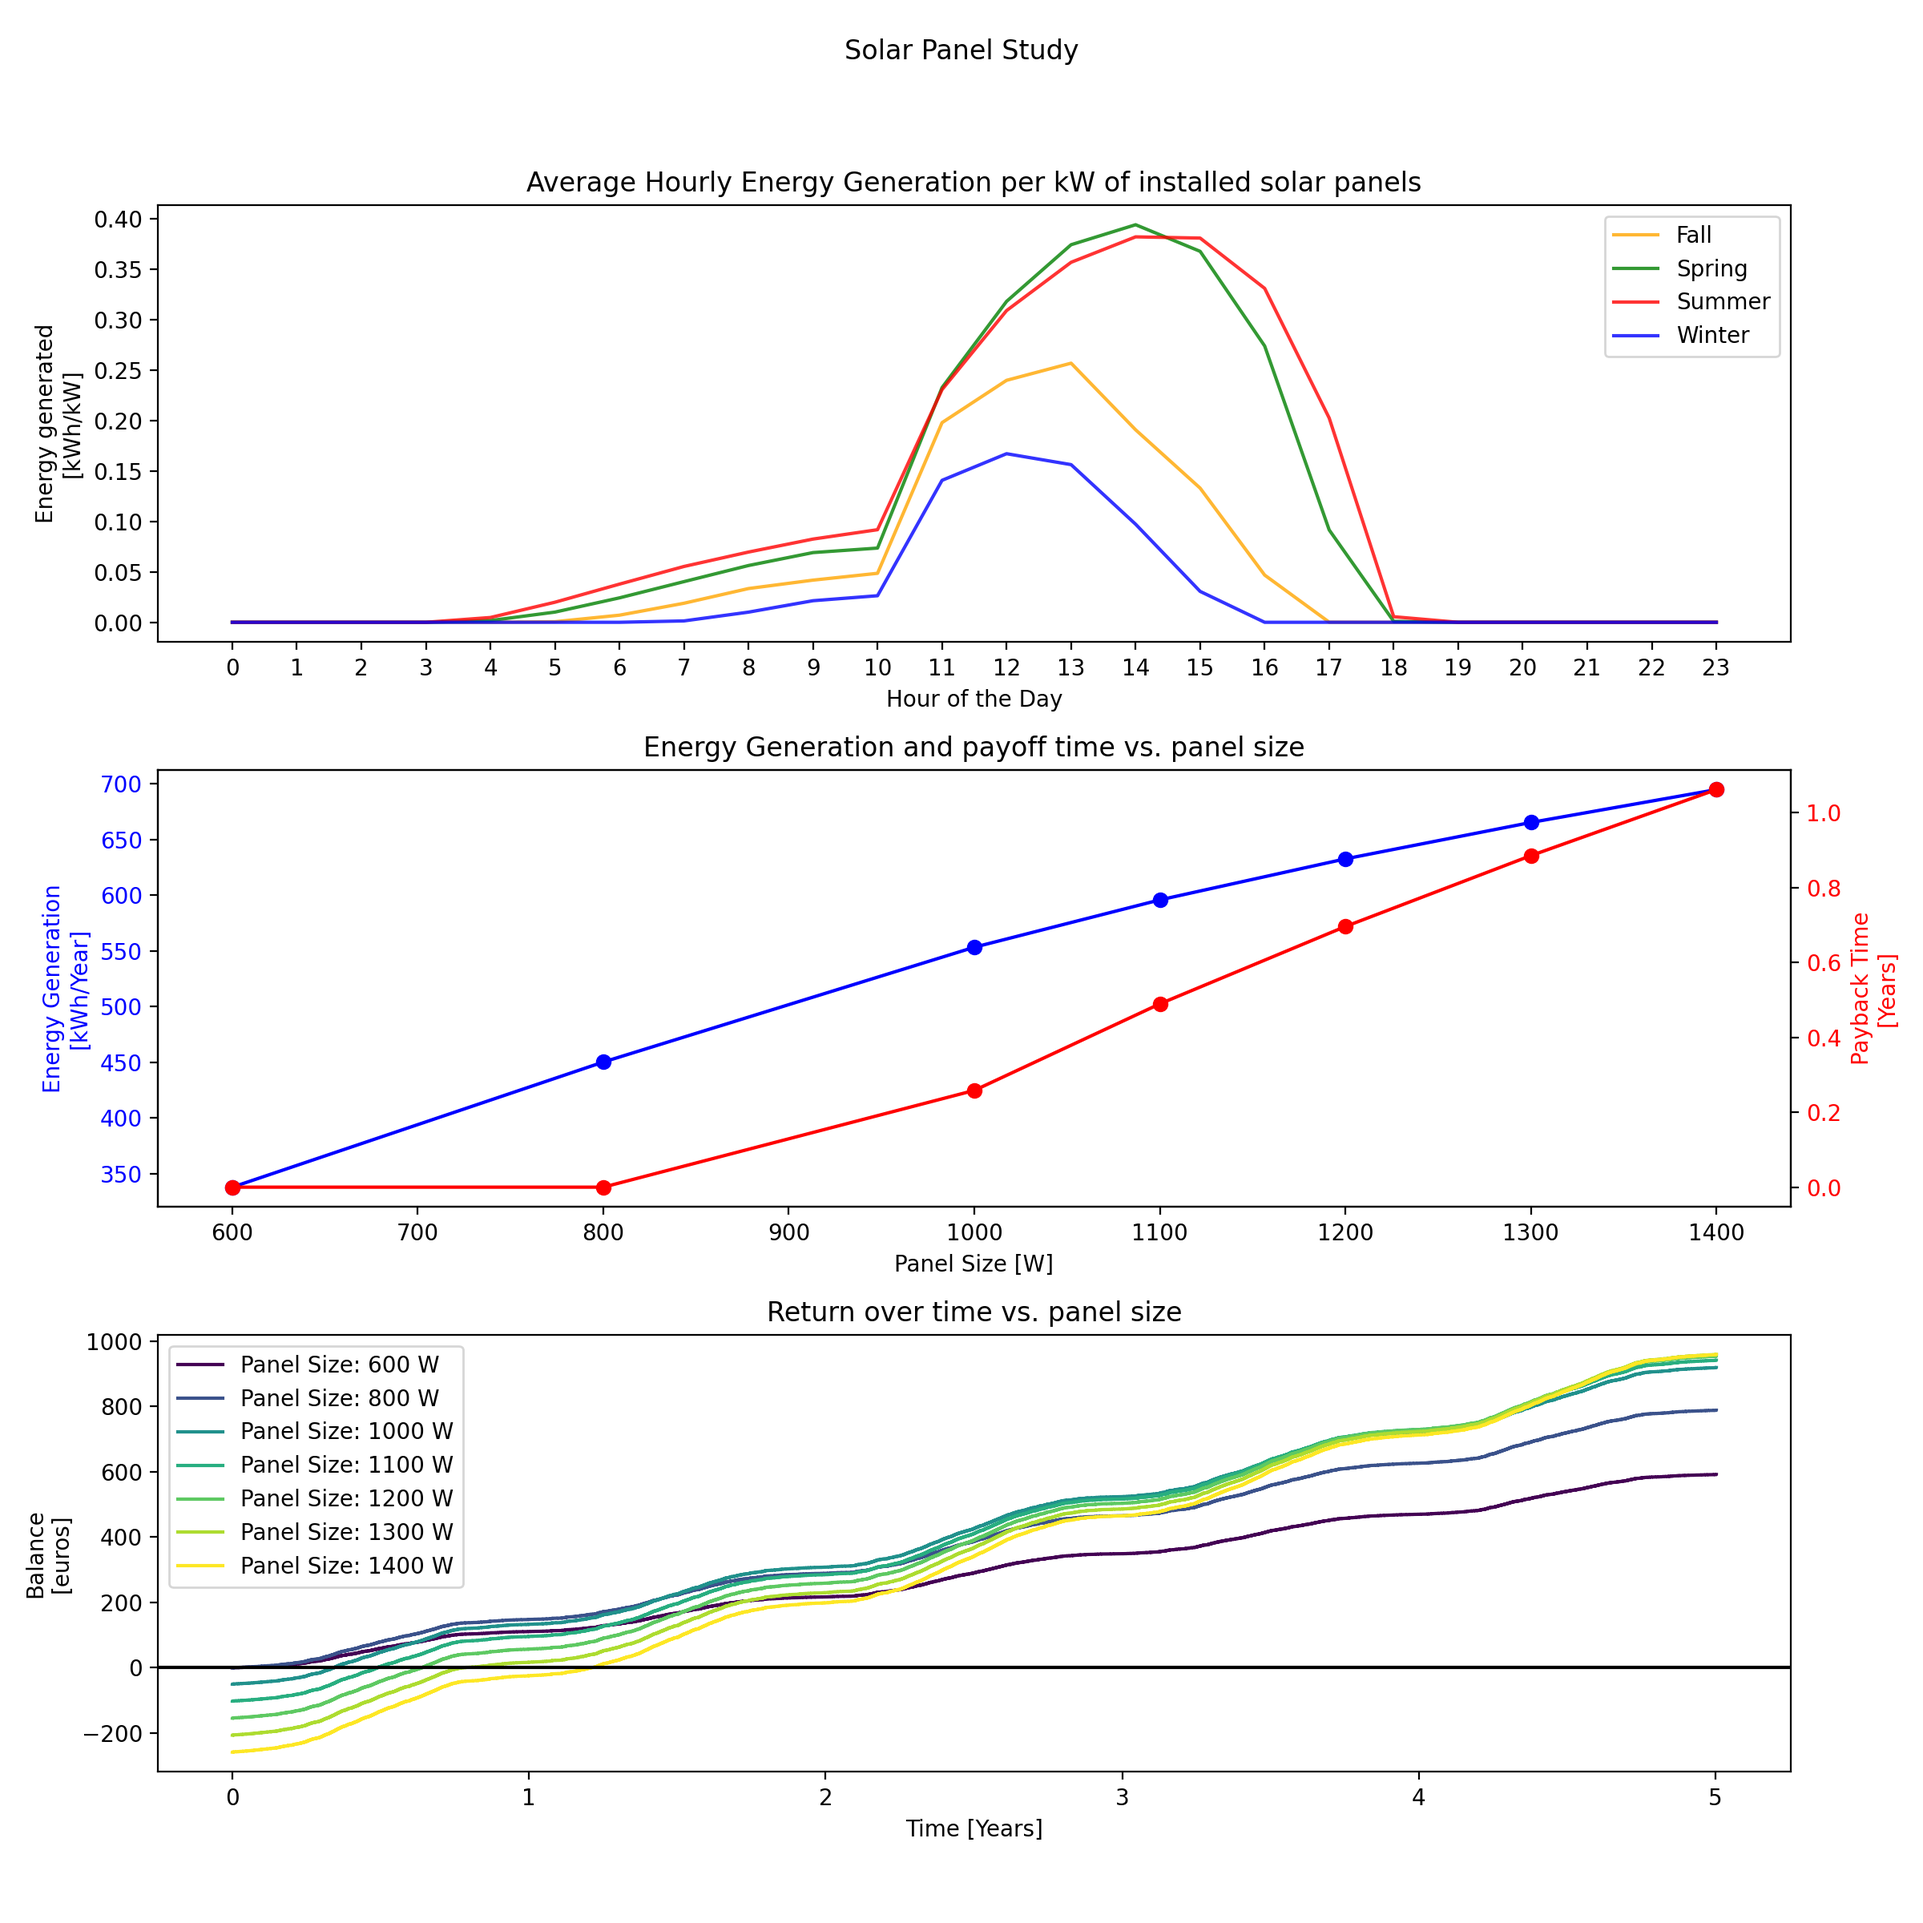
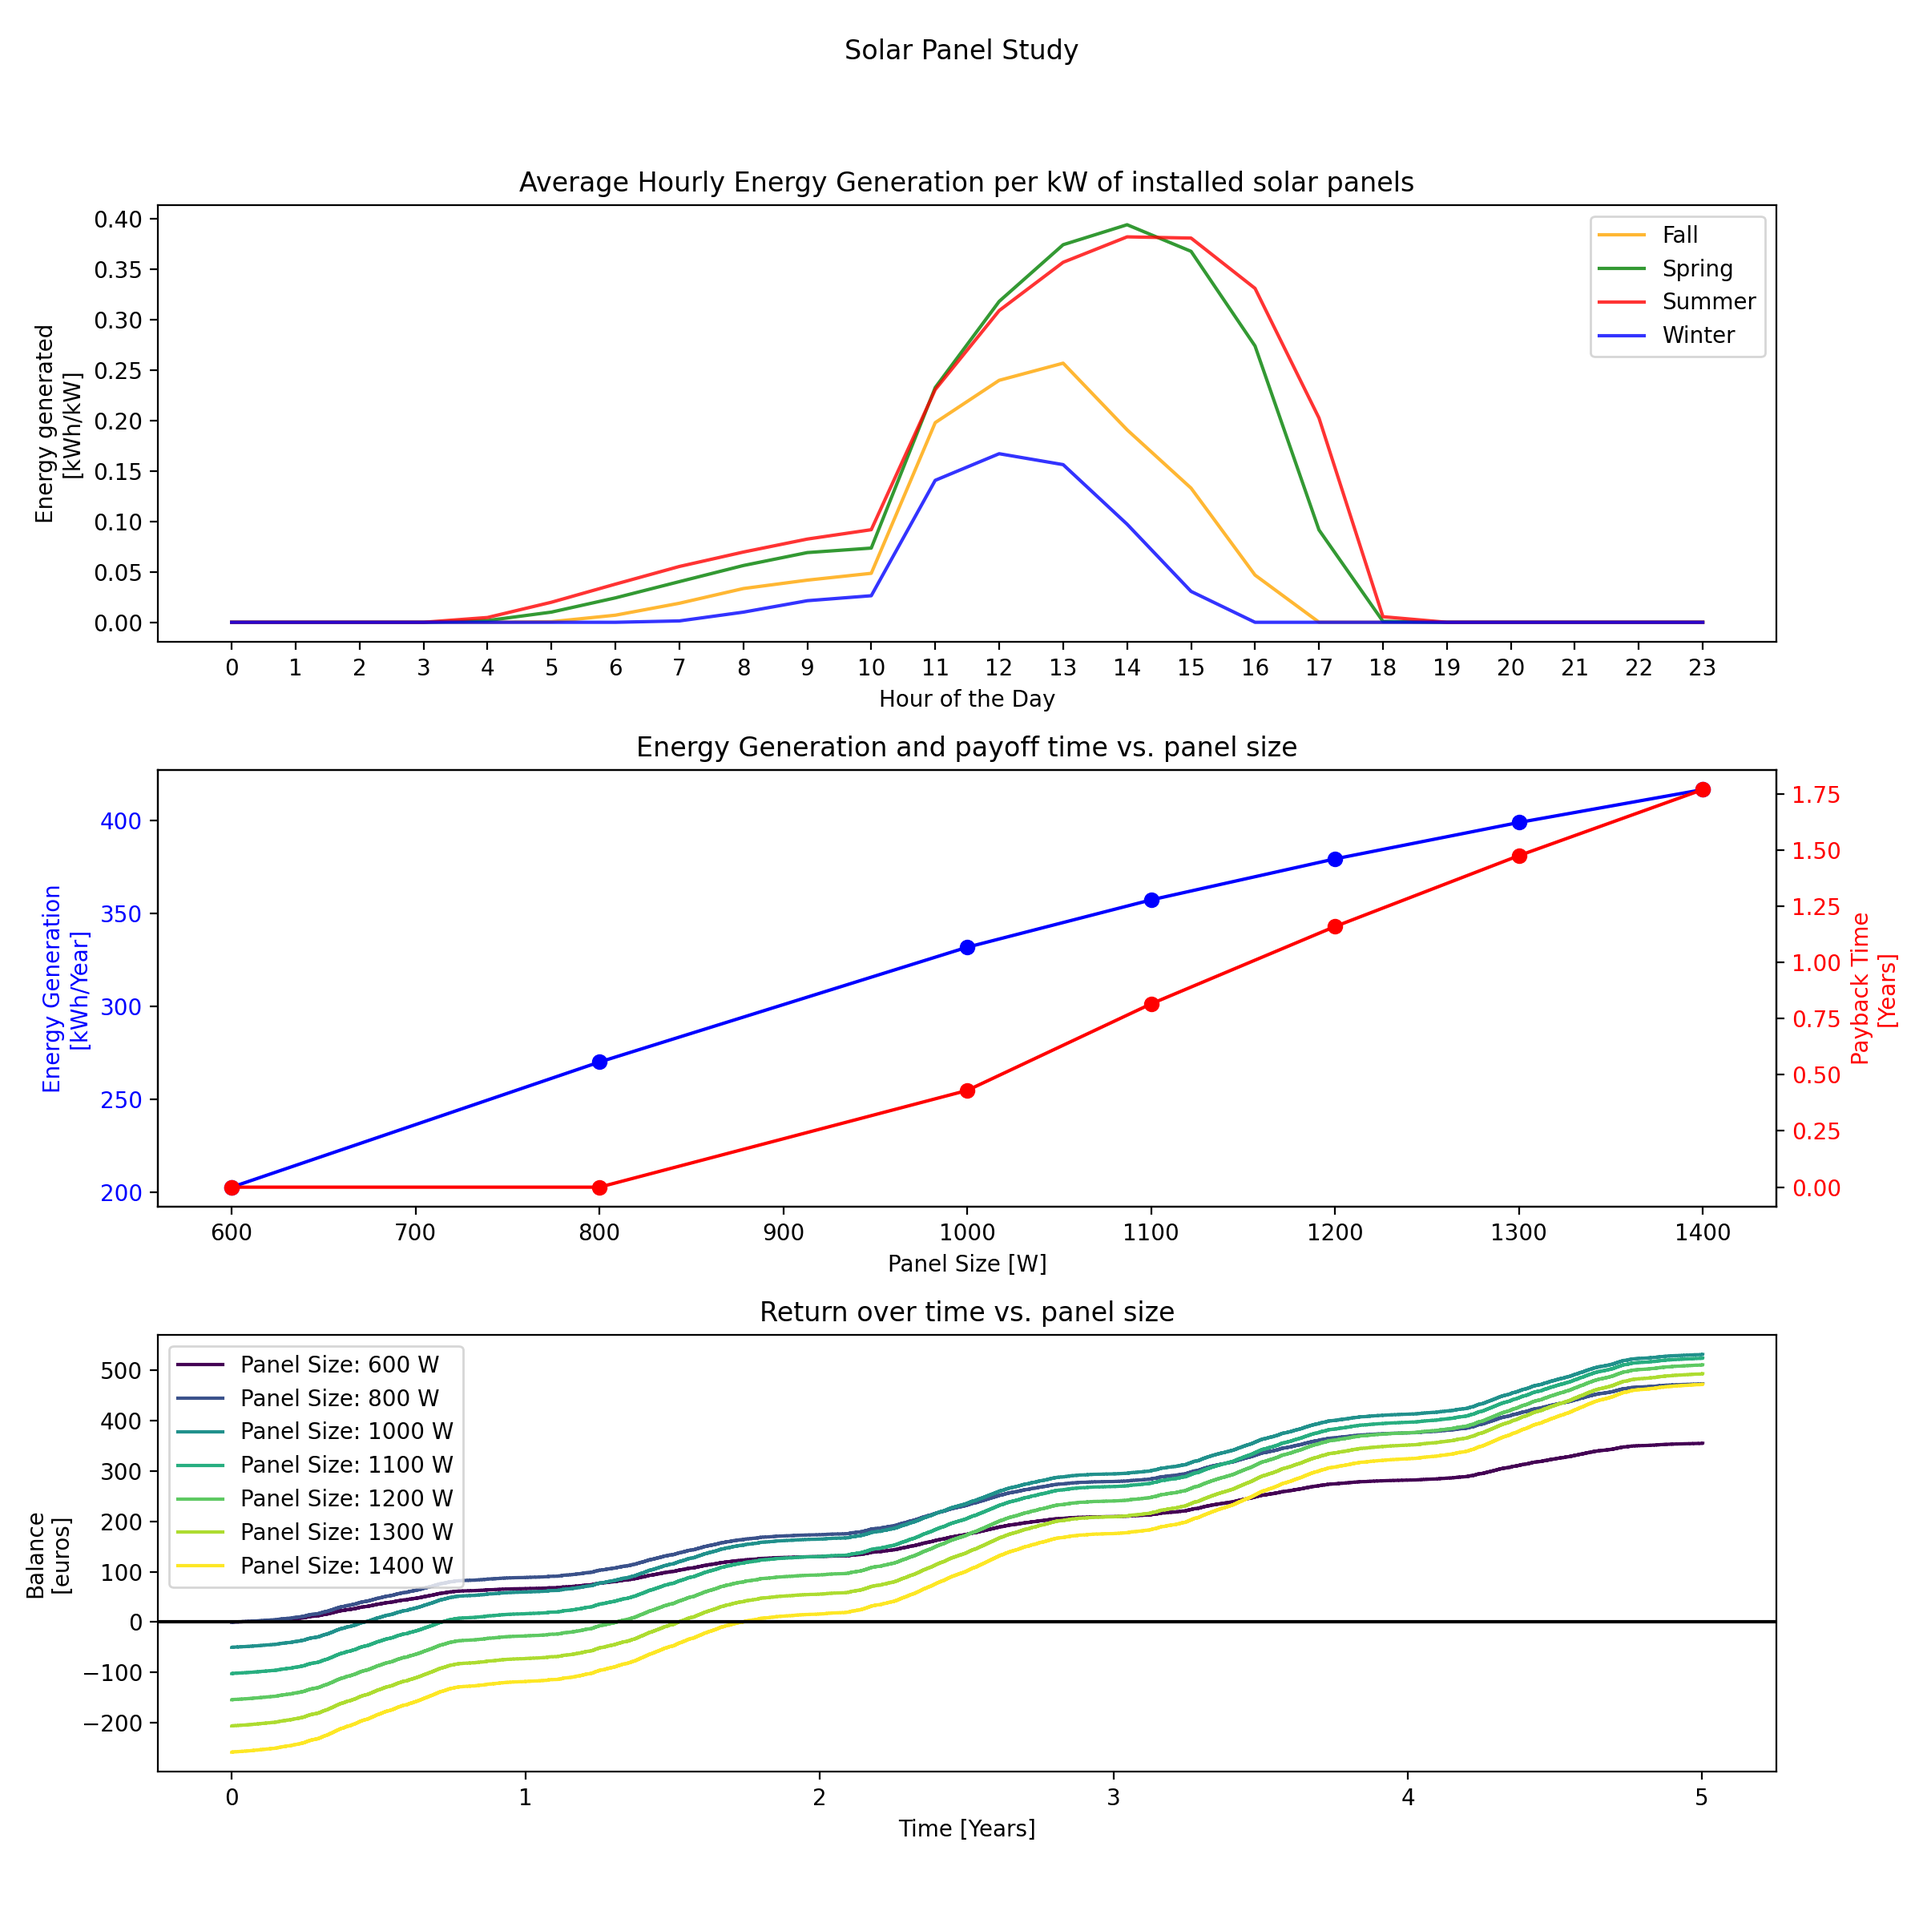
added unused energy coeff

diff --git a/main.py b/main.py
@@ -30,6 +30,7 @@ def main():
     installation_costs = config['installation_costs']
     subsidy_amount = config['subsidy_amount']
     panel_sizes = config['panel_sizes']
+    unused_energy = config['unused_energy']
 
     # Retrieve solar radiation data
     solar_data = get_solar_radiation_data(latitude, longitude, panel_angle, panel_azimuth, pv_tech, horizon_data, system_losses)
@@ -42,14 +43,14 @@ def main():
                                                                    inverter_efficiency,
                                                                    energy_cost_per_kwh,
                                                                    subsidy_amount,
-                                                                   panel_sizes)
+                                                                   panel_sizes, unused_energy)
 
     # Plot and display results
     plot_results(panel_sizes, energy_generated, payback_time, balances, solar_data, max_inverter_power)
 
 
 def calculate_trade_off(solar_data, max_inverter_power, panel_price, installation_costs,
-                        inverter_efficiency, energy_cost_per_kwh, subsidy_amount, panel_sizes):
+                        inverter_efficiency, energy_cost_per_kwh, subsidy_amount, panel_sizes, unused_energy):
     energy_generated, payback_time, balances = [], [], []
     if type(panel_price) is list and len(panel_price) != len(panel_sizes):
         raise ValueError('Panel price is not a single coefficient, but also not the same size as the panel sizes')
@@ -63,10 +64,10 @@ def calculate_trade_off(solar_data, max_inverter_power, panel_price, installatio
             initial_cost = panel_price[i] + installation_costs
         else:
             initial_cost = panel_size * panel_price + installation_costs
-        income = energy_per_hour * inverter_efficiency * energy_cost_per_kwh / 1000
+        income = energy_per_hour * inverter_efficiency * energy_cost_per_kwh * (1-unused_energy) / 1000
         balances.append(min(-initial_cost + subsidy_amount, 0) + np.cumsum(income))
 
-        total_energy_generated = sum(energy_per_hour) * inverter_efficiency
+        total_energy_generated = sum(energy_per_hour) * inverter_efficiency * (1-unused_energy)
         energy_generated.append(total_energy_generated / (num_years * 1000))
 
         payback_time.append(max(initial_cost - subsidy_amount, 0) / (energy_generated[-1] * energy_cost_per_kwh))

diff --git a/README.md b/README.md
@@ -51,6 +51,7 @@ To use the Solar Panel Sizing Tool, follow these steps:
    - `pv_tech`: Cell technologies. Options are 'crystSi', 'CIS', 'CdTe', or 'Unknown'. Default: 'crystSi'
    - `panel_sizes`: List of the panel sizes to be analyzed in Watts. Default: [600, 800, 1000, 1100, 1200, 1300, 1400]
    - `panel_price`: Costs of the panels. Either as a single coefficient (in EUR per Watt of nominal power), or as a list with the cost of each panel size analyzed. Default: 0.52
+   - `unused_energy`: Percentage of the energy generated that is not directly used. Assuming there is no buyback. Defaults: 0.4
 
    Feel free to modify these parameters to match your specific setup and requirements.
 
